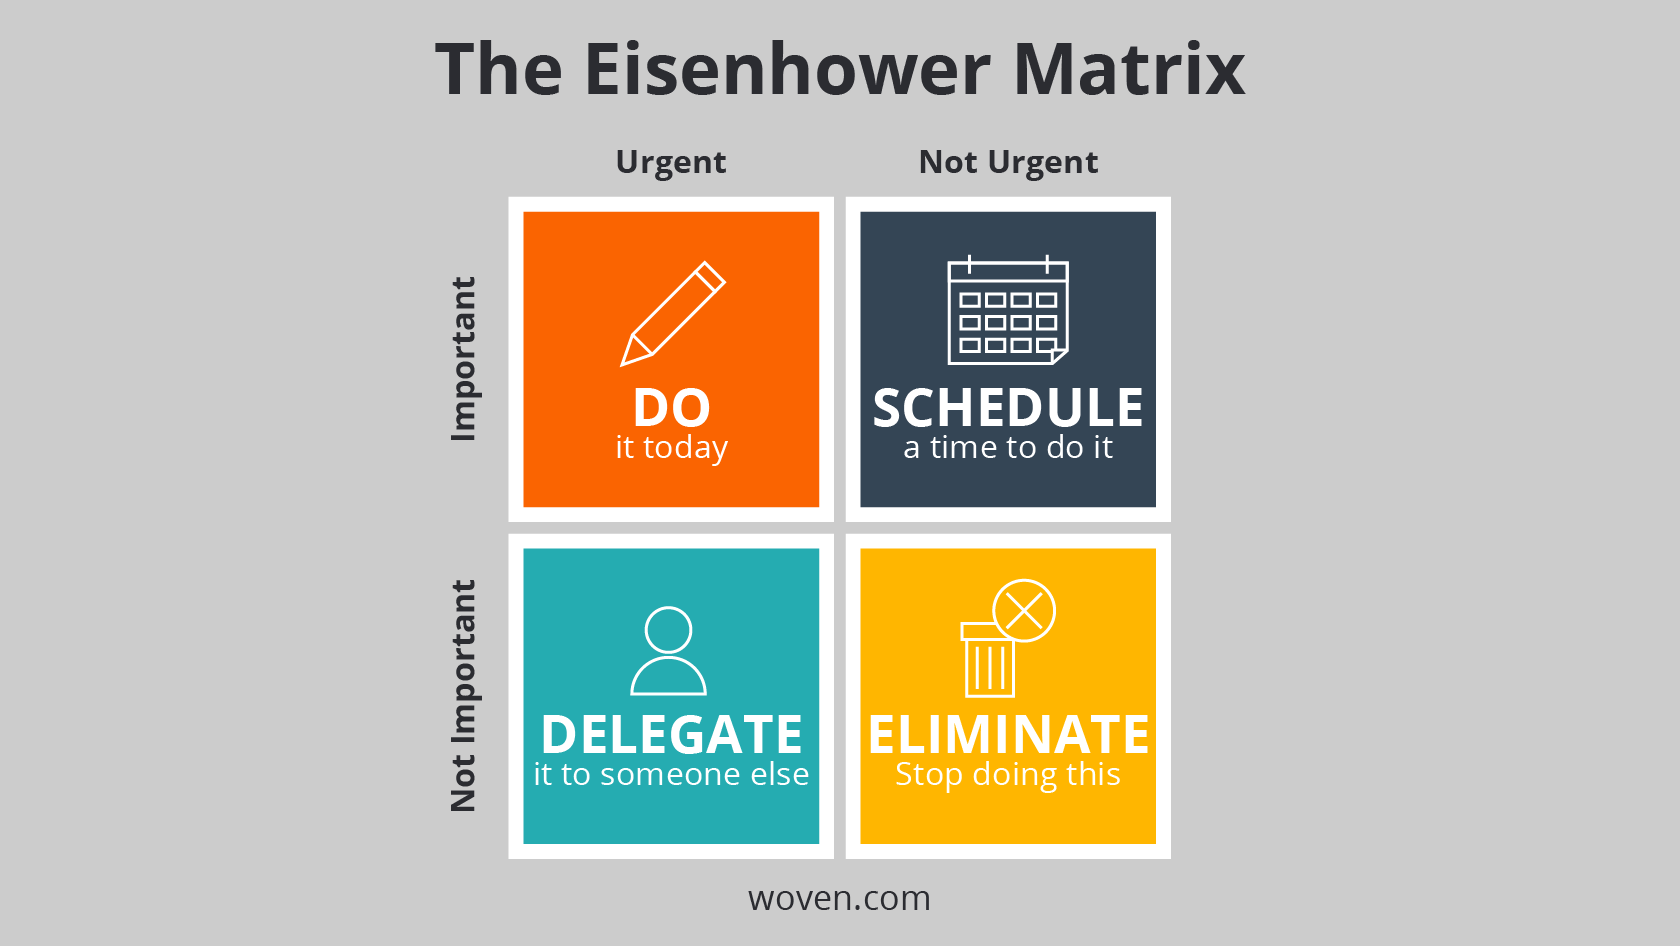
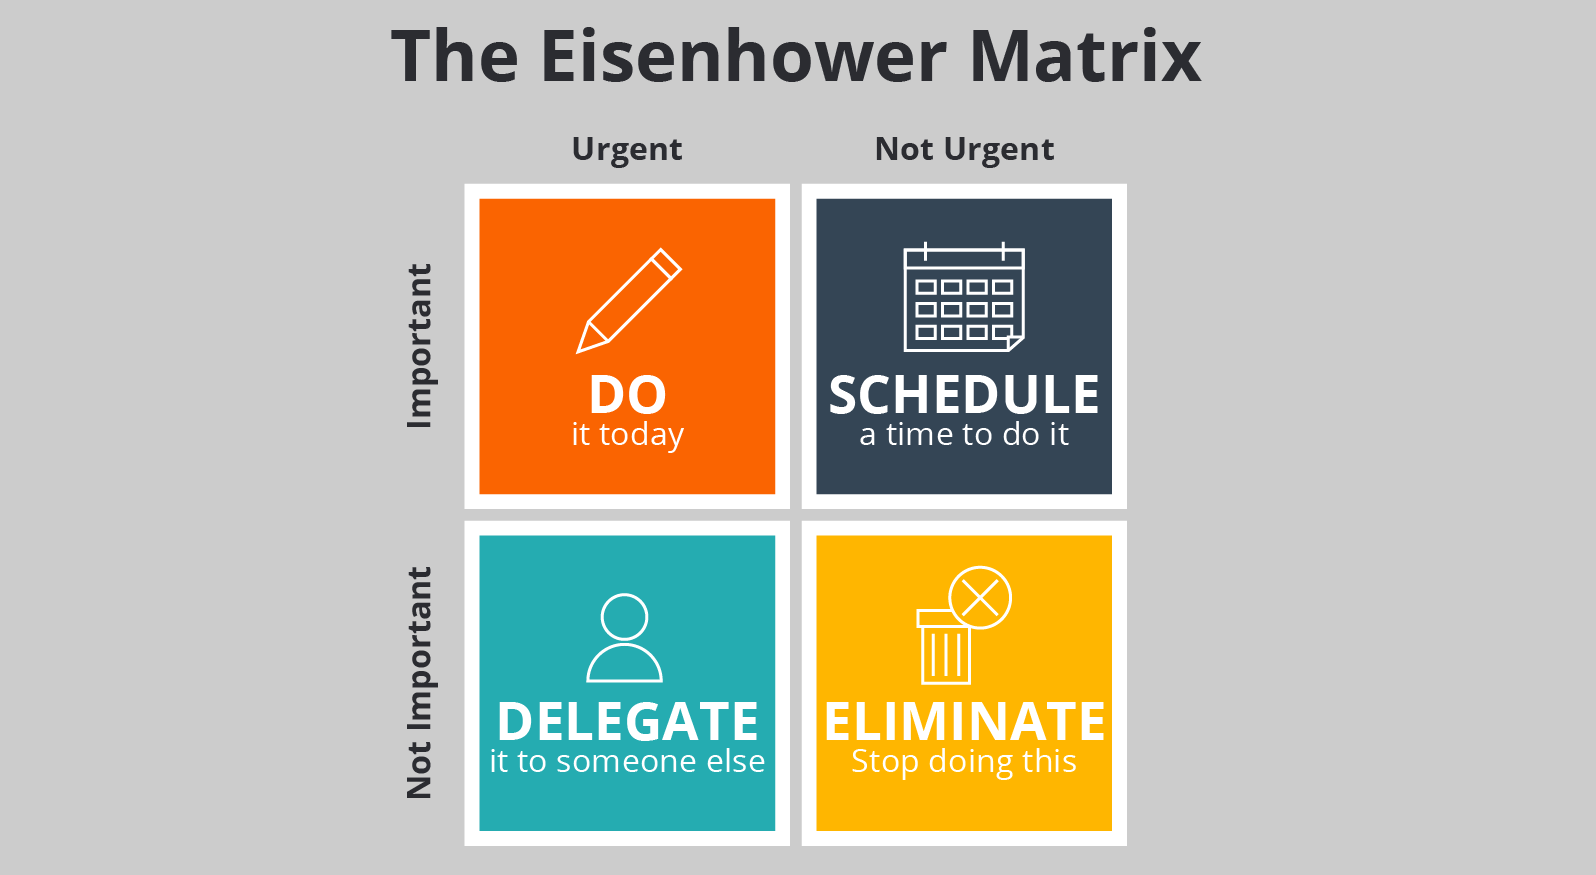
starting to get somewhere with styling

Changed region(s): [[0.2456, 0.1543, 0.7061, 0.9874], [0.2456, 0.0309, 0.7675, 0.1234], [0.3991, 0.2777, 0.4298, 0.3394]]

diff --git a/src/components/chart/Chart.js b/src/components/chart/Chart.js
@@ -1,14 +1,17 @@
 import * as d3 from 'd3'
 
 
-const MARGIN = { TOP: 40, BOTTOM: 40, LEFT: 25, RIGHT:75 }
+
+
+const MARGIN = { TOP: 10, BOTTOM: 10, LEFT: 10, RIGHT:50 }
 const WIDTH = 400 - MARGIN.LEFT - MARGIN.RIGHT
-const HEIGHT = 400 - MARGIN.TOP - MARGIN.BOTTOM
+const HEIGHT = 400 - MARGIN.TOP - MARGIN.BOTTOM 
 
 class Chart {
 	constructor(element, todos) {
+
 		let vis = this
-    vis.data = todos
+		vis.data = todos
 
 		vis.g = d3.select(element)
 			.append("svg")
@@ -16,6 +19,8 @@ class Chart {
 				.attr("height", HEIGHT + MARGIN.TOP + MARGIN.BOTTOM)
 			.append("g")
 				.attr("transform", `translate(${MARGIN.LEFT}, ${MARGIN.TOP})`)
+			
+		
 
 		vis.x = d3.scaleLinear()
 			.range([0, WIDTH])
@@ -28,56 +33,55 @@ class Chart {
 		vis.xAxisGroup = vis.g.append("g")
 			.attr("transform", `translate(0, ${HEIGHT / 2})`)
 
-		//
     vis.yAxisGroup = vis.g.append("g")
 			.attr("transform", `translate(${WIDTH/2}, 0)`)
-    
+		
 
 		vis.g.append("text")
-		.attr("x", WIDTH - 225)
-		.attr("y", HEIGHT - 225)
+		.attr("x", WIDTH/4)
+		.attr("y", HEIGHT/4)
 		.attr("font-size", 20)
-		.attr("text-anchoe", "middle")
+		.attr("fill", "#fa6401")
     .text("Do")
     
     vis.g.append("text")
-		.attr("x", WIDTH - 100)
-		.attr("y", HEIGHT - 225)
+		.attr("x", WIDTH/1.5)
+		.attr("y", HEIGHT/4)
 		.attr("font-size", 20)
-		.attr("text-anchoe", "middle")
+		.attr("fill", "#344555")
     .text("Schedule")
     
     vis.g.append("text")
-		.attr("x", WIDTH - 100)
-		.attr("y", HEIGHT - 75)
+		.attr("x", WIDTH/1.5)
+		.attr("y", HEIGHT/1.25)
 		.attr("font-size", 20)
-		.attr("text-anchoe", "middle")
+		.attr("fill", "#ffb600")
     .text("Eliminate")
     
     vis.g.append("text")
-		.attr("x", WIDTH - 250)
-		.attr("y", HEIGHT - 75)
+		.attr("x", WIDTH/4)
+		.attr("y", HEIGHT/1.25)
 		.attr("font-size", 20)
-		.attr("text-anchoe", "middle")
+		.attr("text-anchor", "middle")
+		.attr("fill", "#25acb1")
     .text("Delegate")
     
     vis.g.append("text")
-		.attr("x", WIDTH - 250)
-		.attr("y", HEIGHT - 165)
+		.attr("x", WIDTH/4)
+		.attr("y", HEIGHT/2.1)
 		.attr("font-size", 10)
-		.attr("text-anchoe", "middle")
+		.attr("text-anchor", "middle")
     .text("More Urgent")
     
     vis.g.append("text")
-		.attr("x", WIDTH - 100)
-		.attr("y", HEIGHT - 165)
+		.attr("x", WIDTH/1.5)
+		.attr("y", HEIGHT/2.1)
 		.attr("font-size", 10)
-		.attr("text-anchoe", "middle")
 		.text("Less Urgent")
 
 		vis.g.append("text")
 		.attr("x", -(HEIGHT / 4))
-		.attr("y", 145)
+		.attr("y", WIDTH/2.1)
 		.attr("transform", "rotate(-90)")
 		.attr("font-size", 10)
 		.attr("text-anchor", "middle")
@@ -85,7 +89,7 @@ class Chart {
 
     vis.g.append("text")
 		.attr("x", -(HEIGHT - 75))
-		.attr("y", 145)
+		.attr("y", WIDTH/2.1)
 		.attr("transform", "rotate(-90)")
 		.attr("font-size", 10)
 		.attr("text-anchor", "middle")
@@ -98,6 +102,17 @@ class Chart {
 	update(todos) {
 		let vis = this
 		vis.data = todos
+		const color = (todos) => {
+			if (todos.urgent >= 5 && todos.important >= 5) {
+				return "#fa6401"
+			} else if (todos.urgent >= 5 && todos.important < 5) {
+				return "#25acb1"
+			} else if (todos.urgent < 5 && todos.important >= 5) {
+				return "#344555"
+			} else if (todos.urgent < 5 && todos.important < 5) {
+				return "#ffb600"
+			}
+		}
 		vis.x.domain([10 , 0])
 		vis.y.domain([0 , 10])
 
@@ -107,10 +122,12 @@ class Chart {
 		vis.xAxisGroup.call(xAxisCall)
 		vis.yAxisGroup.call(yAxisCall)
 
+
 		//JOIN
 		const circles = vis.g.selectAll("circle")
-		.data(vis.data, d => d.name)
-		
+		.data(vis.data, d => d.task)
+
+			
 		//EXIT
 		circles.exit().remove()
 
@@ -124,7 +141,9 @@ class Chart {
 		.attr("cx", d => vis.x(d.urgent))
 		.attr("cy", d => vis.y(d.important))
 		.attr("r", 5)
-		.attr("fill", "grey")
+		.attr("fill", color)
+		.append('title')
+		.text(d => d.task)
 	}
 }
 

diff --git a/src/components/todos/TodoForm.js b/src/components/todos/TodoForm.js
@@ -1,6 +1,6 @@
 //component to handle todo's added and edited
 import React,{useRef, useState, useContext, useEffect} from "react";
-import { Form, FormGroup, Row, Col } from "react-bootstrap";
+import { Form, FormGroup, Row, Col, Container } from "react-bootstrap";
 import RangeSlider from "react-bootstrap-range-slider";
 import { TodoTagForm } from "../todotags/TodoTagForm";
 import SubmitButton from "../utils/SubmitButton";
@@ -80,21 +80,23 @@ export const TodoForm = (props) => {
     }
 
     return (
-
-                <Form  style={{ width: '40rem' }}>
-                    <h1 className="text-center my-4">
+            
+            <Container fluid>
+                <Row className="justify-content-center">
+                <Form style={{width:'50rem'}}>
+                    <h1 className="text-center">
                         {isEditMode ? "Edit Todo" : "Create Todo"}
                     </h1>
                     <FormGroup>
-                        <Col>
+                        <Col className="justify-content-center">
                         <Form.Label>Task</Form.Label>
                         <Form.Control type="text" placeholder="Enter a task" ref={taskRef} />
                         </Col>
                     </FormGroup>  
                     <FormGroup>
-                        <Row sm={1} md={4}>
-                        <Col lg="6">
-                        <Form.Label column sm="4">
+                        <Row>
+                        <Col>
+                        <Form.Label>
                         Importance
                         </Form.Label>
                             <div className="text-muted">
@@ -110,8 +112,8 @@ export const TodoForm = (props) => {
                                 tooltip={'off'}
                             />
                         </Col>
-                        <Col lg="6">
-                        <Form.Label column sm="4">
+                        <Col>
+                        <Form.Label>
                         Urgency
                         </Form.Label>
                             <div className="text-muted">
@@ -128,11 +130,13 @@ export const TodoForm = (props) => {
                         </Col>
                         </Row>
                     </FormGroup>
+                    <Row className="justify-content-center">
                     <TodoTagForm 
                     selectedTodoTagIds={selectedTodoTagIds}
                     onToggleTodoTag={onToggleTodoTag}
                     />
-                    <Row>
+                    </Row>
+                    <Row className="justify-content-center">
                         <SubmitButton 
                         label={isEditMode ? "Update Todo" : "Submit Todo"}
                         onClick ={(e)=>{
@@ -142,5 +146,8 @@ export const TodoForm = (props) => {
                         />
                     </Row>
                 </Form>
+                </Row>
+            </Container>
+            
     )
 }

diff --git a/src/components/chart/ChartWrapper.js b/src/components/chart/ChartWrapper.js
@@ -16,7 +16,10 @@ const ChartWrapper = (props) => {
 	}, [chart, props.todos])
 
 	return (
-		<div className="chart-area" style={{"textAlign": "center"}} ref={chartArea}></div>
+		<>
+			<div className="chart-area" style={{"textAlign": "center"}} ref={chartArea}></div>
+			{/* <div className="chart-area" style={{"textAlign": "center"}} ref={toolTipArea}></div> */}
+		</>
 	)
 }
 

diff --git a/src/components/dash/Dashboard.js b/src/components/dash/Dashboard.js
@@ -36,11 +36,11 @@ export const Dashboard = () => {
       </Col>
     </Row>
       <Row>
-        <Col>
+        <Col style={{minWidth:"375px"}}>
           <TodoAccordian />
         </Col>
         <Col>
-        <Card>
+        <Card style={{minWidth:"375px"}}>
           {renderChart()}
         </Card>
         </Col>

diff --git a/src/components/ApplicationViews.js b/src/components/ApplicationViews.js
@@ -1,4 +1,4 @@
-import React, { useContext } from "react";
+import React from "react";
 import { Route, Redirect } from "react-router-dom";
 import { CategorieProvider } from "./category/CategoryDataProvider";
 import { TodoProvider } from "./todos/TodoDataProvider";
